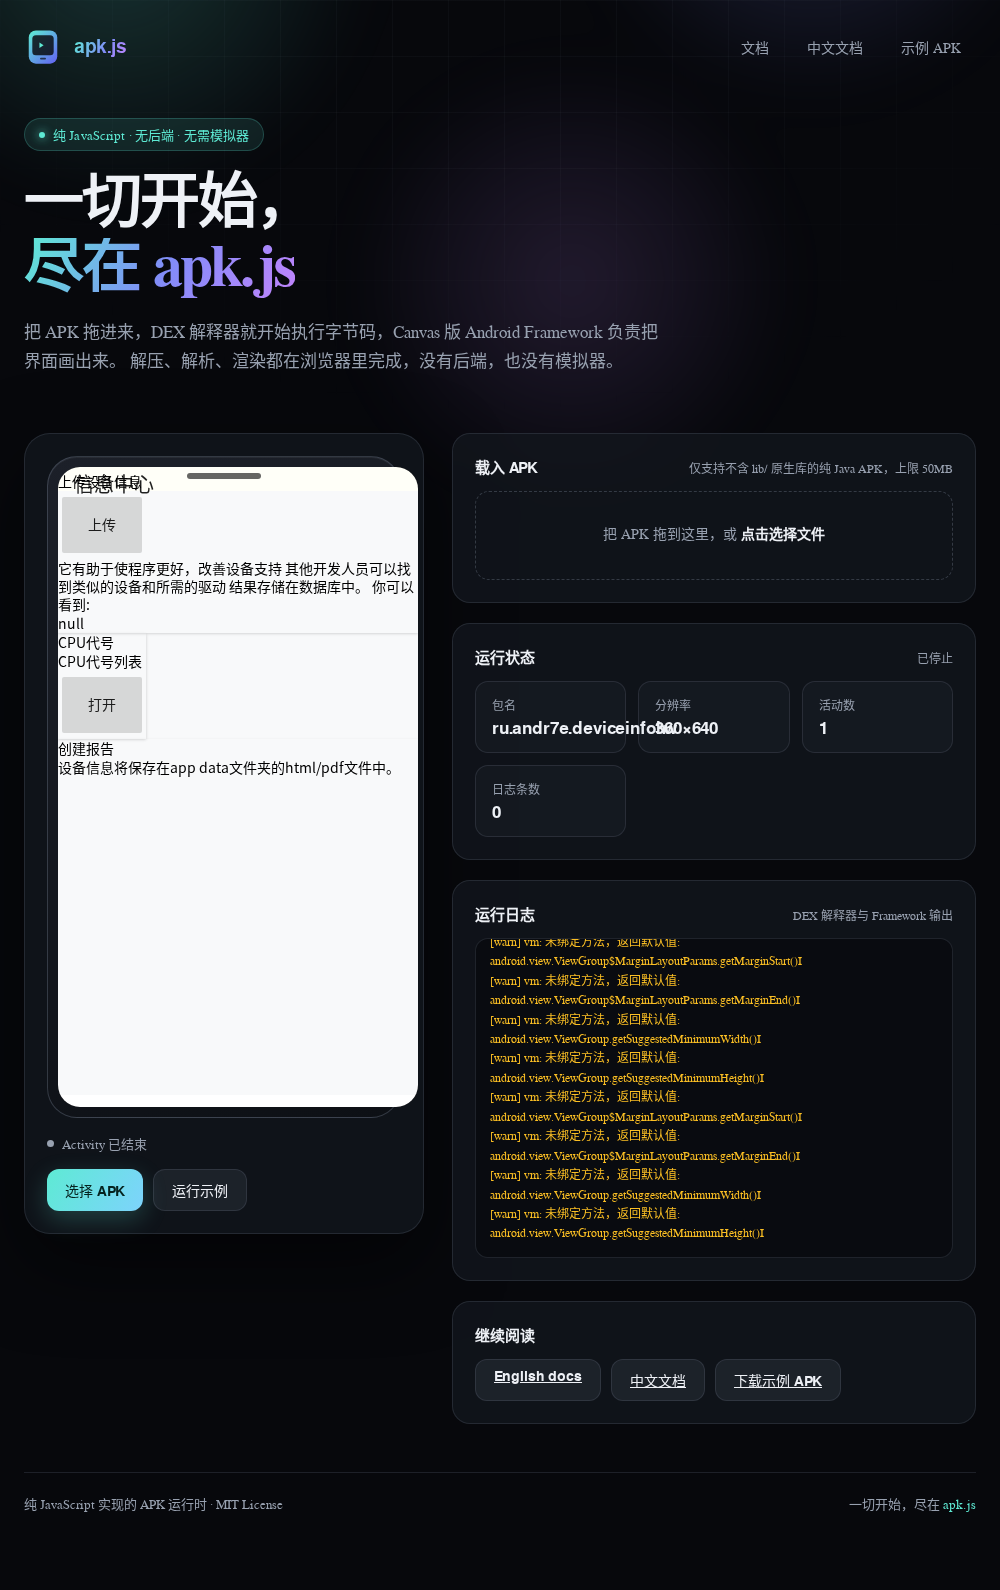
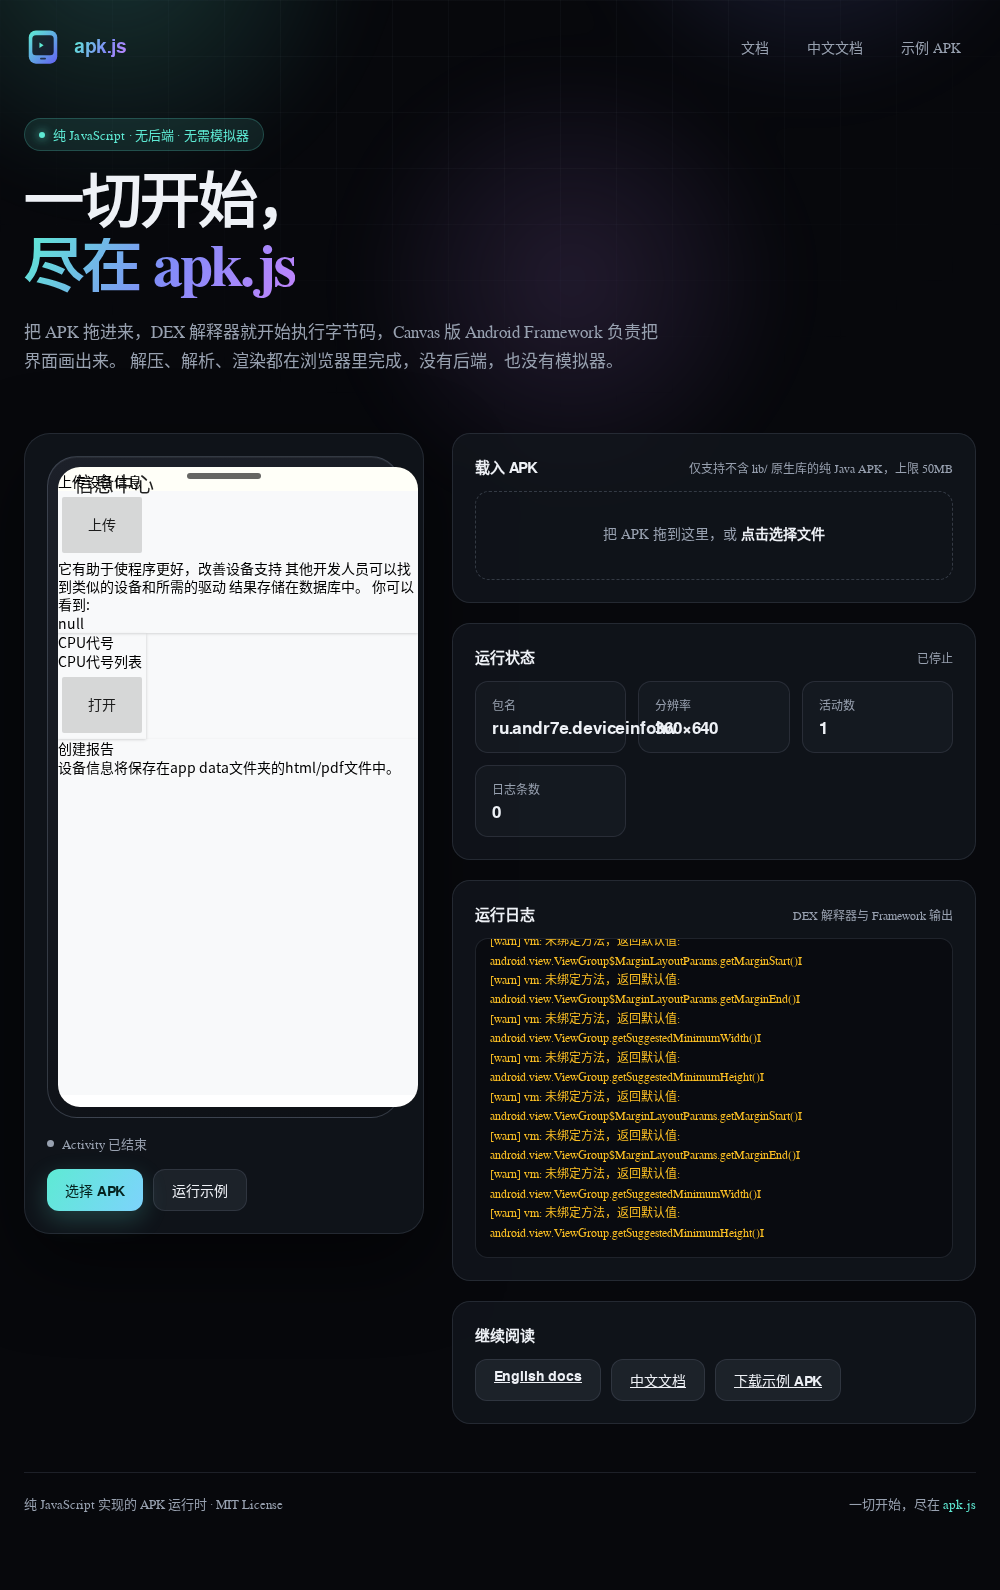
perf(text): 增加文本测量缓存，降低重复 measureText 开销

Changed region(s): [[0.496, 0.5855, 0.775, 0.7704]]

diff --git a/src/framework/graphics.js b/src/framework/graphics.js
@@ -572,6 +572,8 @@ export function blendColor(base, overlay, alpha = 1) {
 
 let textMeasureContext;
 let textMeasureProbed = false;
+const textMeasureCache = new Map();
+const TEXT_MEASURE_CACHE_LIMIT = 4096;
 
 function measureContext() {
   if (textMeasureProbed) return textMeasureContext;
@@ -592,6 +594,9 @@ function measureContext() {
 
 export function measureTextWidth(text, textSize, typeface = 'Noto Sans CJK SC') {
   if (!text) return 0;
+  const cacheKey = `${Number(textSize) || 14}\u0000${typeface}\u0000${text}`;
+  const cached = textMeasureCache.get(cacheKey);
+  if (cached !== undefined) return cached;
   const ctx = measureContext();
   if (ctx) {
     try {
@@ -613,6 +618,8 @@ export function measureTextWidth(text, textSize, typeface = 'Noto Sans CJK SC') 
     else if (/[0-9]/.test(char)) width += textSize * 0.56;
     else width += textSize * 0.55;
   }
+  if (textMeasureCache.size > TEXT_MEASURE_CACHE_LIMIT) textMeasureCache.clear();
+  textMeasureCache.set(cacheKey, width);
   return width;
 }
 
